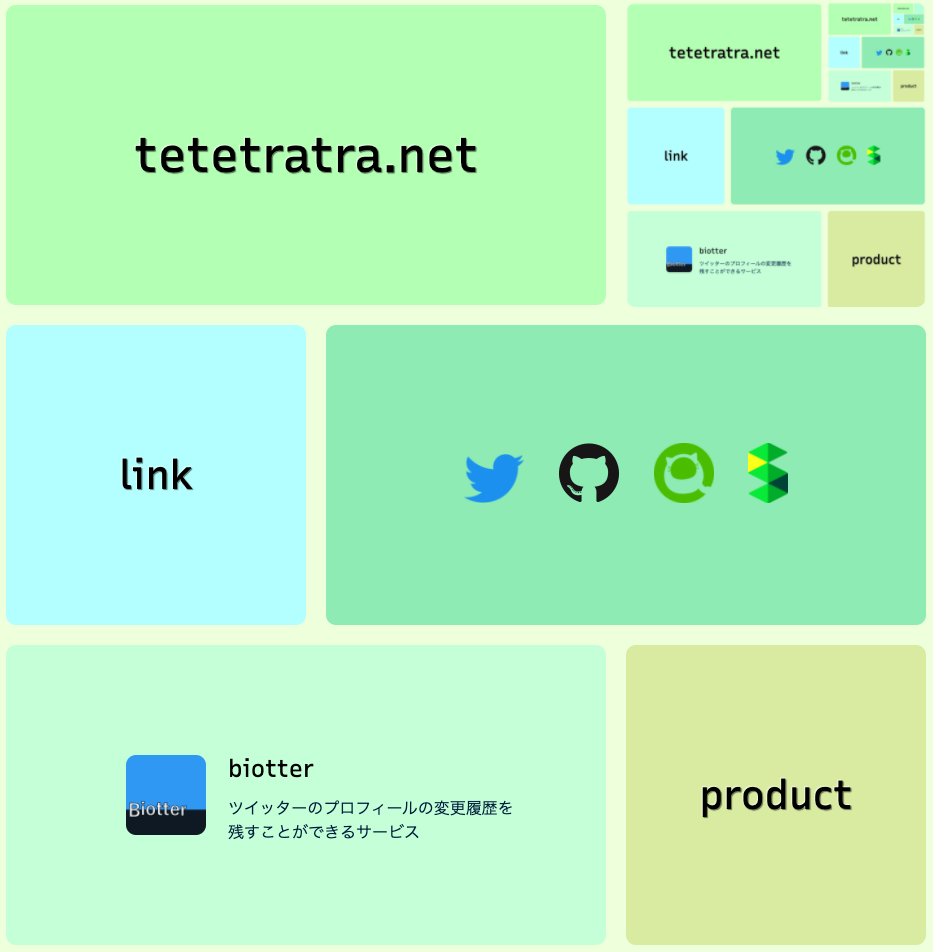
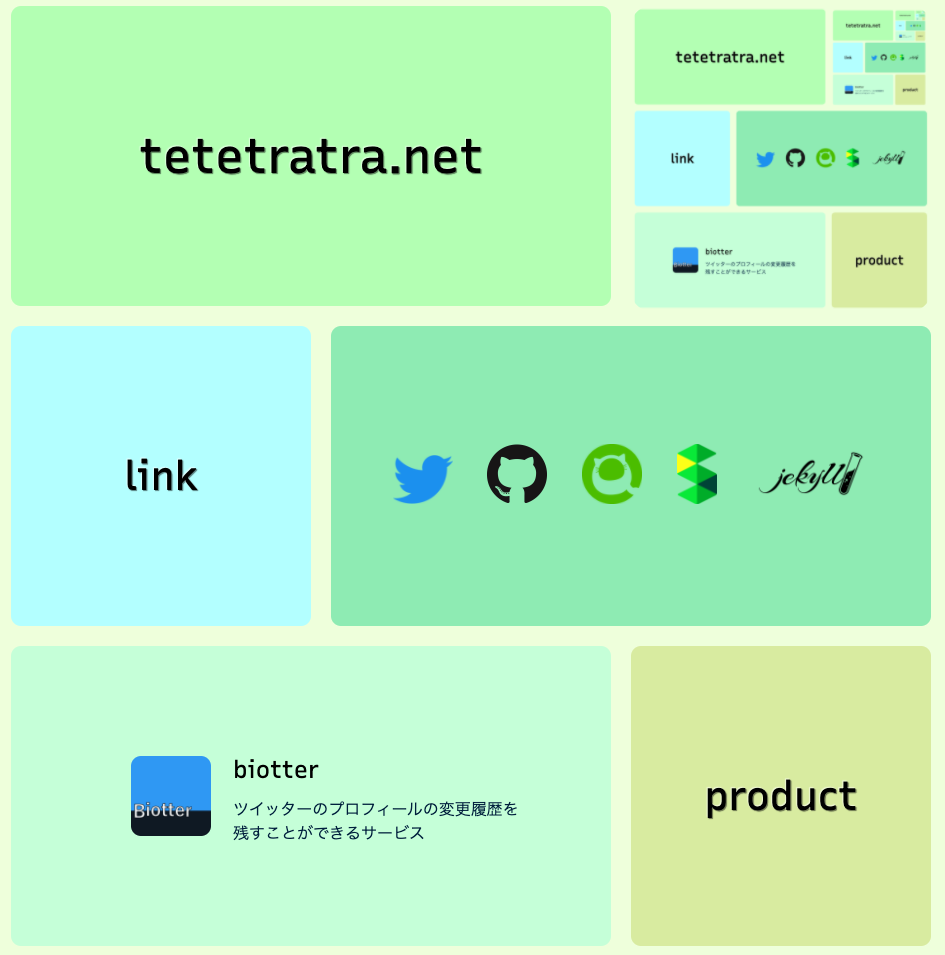
ブログのリンクを追加

diff --git a/index.html b/index.html
@@ -39,8 +39,9 @@
           <div class="icon">
             <a class="link-twitter" href="https://twitter.com/tetetratra"><img class="icon icon-w60 icon-twitter" src="images/twitter_logo.png"></a>
             <a class="link-github" href="https://github.com/tetetratra"><img class="icon icon-w60 icon-github" src="images/github_logo.png"></a>
-            <a class="link-qiita" href="https://scrapbox.io/tetetratra-tech"><img class="icon icon-w60 icon-qiita" src="images/qiita_logo.png"></a>
-            <a class="link-scrapbox" href="https://qiita.com/tetetratra"><img class="icon icon-h60 icon-scrapbox" src="images/scrapbox_logo.png"></a>
+            <a class="link-qiita" href="https://qiita.com/tetetratra"><img class="icon icon-w60 icon-qiita" src="images/qiita_logo.png"></a>
+            <a class="link-scrapbox" href="https://scrapbox.io/tetetratra-tech"><img class="icon icon-h60 icon-scrapbox" src="images/scrapbox_logo.png"></a>
+            <a class="link-blog" href="https://blog.tetetratra.net"><img class="icon icon-h60 icon-blog" src="images/jekyll_logo.png"></a>
           </div>
         </div>
         <div class="item">

diff --git a/index.css b/index.css
@@ -110,6 +110,13 @@ body {
   top: 70px;
   left: 285px;
 }
+.link-blog:hover:after {
+  color: black;
+  content: "ブログ";
+  position: absolute;
+  top: 70px;
+  left: 410px;
+}
 
 .item:nth-child(5) {
   background-color: #CFD;
